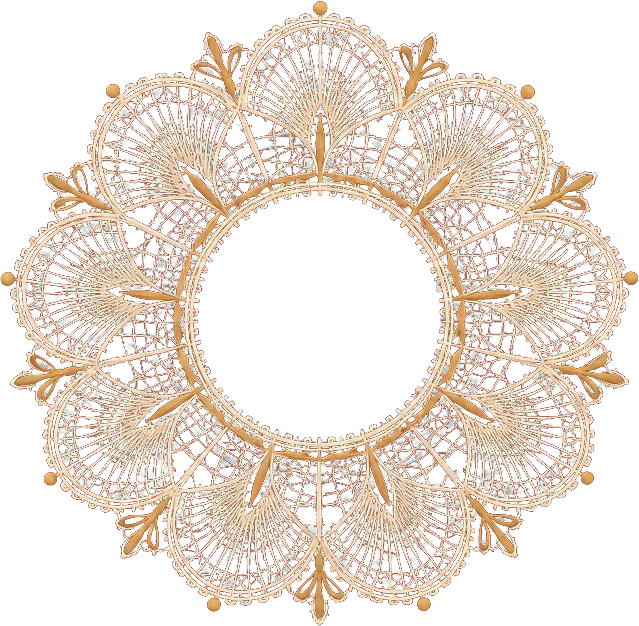
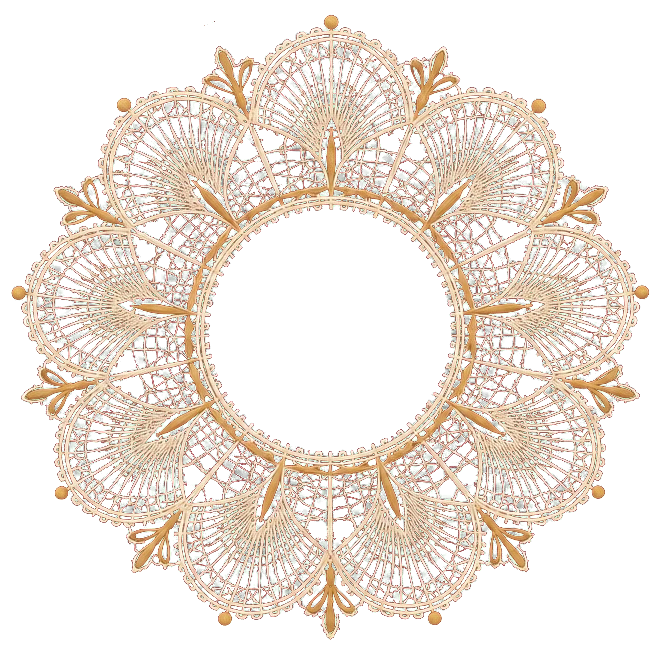
Plato del inicio centrado: aro de encaje recortado al centro real, fotos recortadas en círculo y canto crema

diff --git a/js/data.js b/js/data.js
@@ -78,7 +78,7 @@ window.CARTA = [
   { cat: "paraguayo", nombre: "Mbejú tradicional", precio: 4.80, img: "img/platos/mbeju.webp",
     desc: "Torta crujiente de almidón de mandioca, harina de maíz, queso, leche y mantequilla, hecha a la plancha.",
     gn: "Se pronuncia «mbeyú»", tags: ["py", "sintrigo"] },
-  { cat: "paraguayo", nombre: "Mbejú relleno de queso", precio: 5.90, img: "img/platos/hl-mbeju.webp",
+  { cat: "paraguayo", nombre: "Mbejú relleno de queso", precio: 5.90, img: "img/platos/hl-mbeju.webp", disco: "img/platos/plato-mbeju.webp",
     desc: "Nuestro mbejú con corazón de mozzarella fundida. El que estira.",
     tags: ["py", "top", "sintrigo"] },
   { cat: "paraguayo", nombre: "Mandi'ó chyryry", precio: 12.30, img: "img/platos/hl-chyryry.webp",
@@ -106,7 +106,7 @@ window.CARTA = [
     desc: "Maíz tierno y mozzarella. Dulce, suave y muy paraguaya.", tags: ["py"] },
 
   /* --- ESPECIALES DEL FINDE --- */
-  { cat: "finde", nombre: "Vorí vorí", precio: null, img: "img/platos/hl-vori-vori.webp",
+  { cat: "finde", nombre: "Vorí vorí", precio: null, img: "img/platos/hl-vori-vori.webp", disco: "img/platos/plato-vori.webp",
     desc: "Caldo de gallina casera con bolitas de harina de maíz y queso. El plato con el que Loren representó a Paraguay en el Mundial de Comidas de Ibai.",
     gn: "De «bolita» → vorí", tags: ["py", "top", "finde"] },
   { cat: "finde", nombre: "Asado a la olla", precio: null, img: "img/platos/hl-asado-olla.webp",
@@ -151,7 +151,7 @@ window.CARTA = [
     desc: "Con reducción de Módena." },
 
   /* --- MILANESAS --- */
-  { cat: "milanesas", nombre: "Milanesa a caballo", precio: 18.90, img: "img/platos/mila-caballo-pro.webp",
+  { cat: "milanesas", nombre: "Milanesa a caballo", precio: 18.90, img: "img/platos/mila-caballo-pro.webp", disco: "img/platos/plato-mila-caballo.webp",
     desc: "Milanesa de ternera con cebolla frita, dos huevos fritos y guarnición.", tags: ["top"] },
   { cat: "milanesas", nombre: "Milanesa a la napolitana", precio: 19.90, img: "img/platos/hl-milanesa.webp",
     desc: "Tomate frito, jamón, queso y huevo, con patatas fritas.", tags: ["top"] },

diff --git a/ca/carta.html b/ca/carta.html
@@ -19,9 +19,9 @@
 <link href="img/marca/favicon.webp" rel="icon" type="image/webp"/>
 <link href="https://fonts.googleapis.com" rel="preconnect"/><link crossorigin="" href="https://fonts.gstatic.com" rel="preconnect"/>
 <link href="https://fonts.googleapis.com/css2?family=DM+Sans:ital,opsz,wght@0,9..40,400..700;1,9..40,400..700&amp;family=Fraunces:ital,opsz,wght,SOFT,WONK@0,9..144,300..800,0..100,0..1;1,9..144,300..800,0..100,0..1&amp;family=Yellowtail&amp;display=swap" rel="stylesheet"/>
-<link href="css/styles.css?v=5" rel="stylesheet"/>
-<link href="css/paginas.css?v=5" rel="stylesheet"/>
-<link href="css/carta.css?v=5" rel="stylesheet"/>
+<link href="css/styles.css?v=6" rel="stylesheet"/>
+<link href="css/paginas.css?v=6" rel="stylesheet"/>
+<link href="css/carta.css?v=6" rel="stylesheet"/>
 <link href="ca/carta.html" hreflang="es" rel="alternate"/><link href="ca/carta.html" hreflang="ca" rel="alternate"/><link href="en/carta.html" hreflang="en" rel="alternate"/></head>
 <body data-page="carta">
 <div id="shell-top"></div>
@@ -140,11 +140,11 @@
 <div class="pp__caja" id="pp-caja"></div>
 </div>
 <div id="shell-bottom"></div>
-<script src="js/i18n.js?v=5"></script><script src="js/data.js?v=5"></script>
-<script src="js/layout.js?v=5"></script>
-<script src="js/nanduti.js?v=5"></script>
-<script src="js/paginas.js?v=5"></script>
-<script src="js/carta.js?v=5"></script>
-<script src="js/main.js?v=5"></script>
+<script src="js/i18n.js?v=5"></script><script src="js/data.js?v=6"></script>
+<script src="js/layout.js?v=6"></script>
+<script src="js/nanduti.js?v=6"></script>
+<script src="js/paginas.js?v=6"></script>
+<script src="js/carta.js?v=6"></script>
+<script src="js/main.js?v=6"></script>
 </body>
 </html>

diff --git a/en/carta.html b/en/carta.html
@@ -19,9 +19,9 @@
 <link href="img/marca/favicon.webp" rel="icon" type="image/webp"/>
 <link href="https://fonts.googleapis.com" rel="preconnect"/><link crossorigin="" href="https://fonts.gstatic.com" rel="preconnect"/>
 <link href="https://fonts.googleapis.com/css2?family=DM+Sans:ital,opsz,wght@0,9..40,400..700;1,9..40,400..700&amp;family=Fraunces:ital,opsz,wght,SOFT,WONK@0,9..144,300..800,0..100,0..1;1,9..144,300..800,0..100,0..1&amp;family=Yellowtail&amp;display=swap" rel="stylesheet"/>
-<link href="css/styles.css?v=5" rel="stylesheet"/>
-<link href="css/paginas.css?v=5" rel="stylesheet"/>
-<link href="css/carta.css?v=5" rel="stylesheet"/>
+<link href="css/styles.css?v=6" rel="stylesheet"/>
+<link href="css/paginas.css?v=6" rel="stylesheet"/>
+<link href="css/carta.css?v=6" rel="stylesheet"/>
 <link href="en/carta.html" hreflang="es" rel="alternate"/><link href="ca/carta.html" hreflang="ca" rel="alternate"/><link href="en/carta.html" hreflang="en" rel="alternate"/></head>
 <body data-page="carta">
 <div id="shell-top"></div>
@@ -140,11 +140,11 @@
 <div class="pp__caja" id="pp-caja"></div>
 </div>
 <div id="shell-bottom"></div>
-<script src="js/i18n.js?v=5"></script><script src="js/data.js?v=5"></script>
-<script src="js/layout.js?v=5"></script>
-<script src="js/nanduti.js?v=5"></script>
-<script src="js/paginas.js?v=5"></script>
-<script src="js/carta.js?v=5"></script>
-<script src="js/main.js?v=5"></script>
+<script src="js/i18n.js?v=5"></script><script src="js/data.js?v=6"></script>
+<script src="js/layout.js?v=6"></script>
+<script src="js/nanduti.js?v=6"></script>
+<script src="js/paginas.js?v=6"></script>
+<script src="js/carta.js?v=6"></script>
+<script src="js/main.js?v=6"></script>
 </body>
 </html>

diff --git a/ca/index.html b/ca/index.html
@@ -20,8 +20,8 @@
 <link href="https://fonts.googleapis.com" rel="preconnect"/>
 <link crossorigin="" href="https://fonts.gstatic.com" rel="preconnect"/>
 <link href="https://fonts.googleapis.com/css2?family=DM+Sans:ital,opsz,wght@0,9..40,400..700;1,9..40,400..700&amp;family=Fraunces:ital,opsz,wght,SOFT,WONK@0,9..144,300..800,0..100,0..1;1,9..144,300..800,0..100,0..1&amp;family=Yellowtail&amp;display=swap" rel="stylesheet"/>
-<link href="css/styles.css?v=5" rel="stylesheet"/>
-<link href="css/carta-clasica.css?v=5" rel="stylesheet"/>
+<link href="css/styles.css?v=6" rel="stylesheet"/>
+<link href="css/carta-clasica.css?v=6" rel="stylesheet"/>
 <script type="application/ld+json">
   {
     "@context": "https://schema.org",
@@ -439,10 +439,10 @@
 </section>
 </main>
 <div id="shell-bottom"></div>
-<script src="js/i18n.js?v=5"></script><script src="js/data.js?v=5"></script>
-<script src="js/layout.js?v=5"></script>
-<script src="js/nanduti.js?v=5"></script>
-<script src="js/carta-clasica.js?v=5"></script>
+<script src="js/i18n.js?v=5"></script><script src="js/data.js?v=6"></script>
+<script src="js/layout.js?v=6"></script>
+<script src="js/nanduti.js?v=6"></script>
+<script src="js/carta-clasica.js?v=6"></script>
 <script>
   CartaClasica.visor(document.getElementById("visor-carta"));
   (function () {
@@ -456,6 +456,6 @@
     document.getElementById("sc-n3").textContent = CARTA.filter((p) => p.cat === "finde").length;
   })();
 </script>
-<script src="js/main.js?v=5"></script>
+<script src="js/main.js?v=6"></script>
 </body>
 </html>

diff --git a/en/index.html b/en/index.html
@@ -20,8 +20,8 @@
 <link href="https://fonts.googleapis.com" rel="preconnect"/>
 <link crossorigin="" href="https://fonts.gstatic.com" rel="preconnect"/>
 <link href="https://fonts.googleapis.com/css2?family=DM+Sans:ital,opsz,wght@0,9..40,400..700;1,9..40,400..700&amp;family=Fraunces:ital,opsz,wght,SOFT,WONK@0,9..144,300..800,0..100,0..1;1,9..144,300..800,0..100,0..1&amp;family=Yellowtail&amp;display=swap" rel="stylesheet"/>
-<link href="css/styles.css?v=5" rel="stylesheet"/>
-<link href="css/carta-clasica.css?v=5" rel="stylesheet"/>
+<link href="css/styles.css?v=6" rel="stylesheet"/>
+<link href="css/carta-clasica.css?v=6" rel="stylesheet"/>
 <script type="application/ld+json">
   {
     "@context": "https://schema.org",
@@ -439,10 +439,10 @@
 </section>
 </main>
 <div id="shell-bottom"></div>
-<script src="js/i18n.js?v=5"></script><script src="js/data.js?v=5"></script>
-<script src="js/layout.js?v=5"></script>
-<script src="js/nanduti.js?v=5"></script>
-<script src="js/carta-clasica.js?v=5"></script>
+<script src="js/i18n.js?v=5"></script><script src="js/data.js?v=6"></script>
+<script src="js/layout.js?v=6"></script>
+<script src="js/nanduti.js?v=6"></script>
+<script src="js/carta-clasica.js?v=6"></script>
 <script>
   CartaClasica.visor(document.getElementById("visor-carta"));
   (function () {
@@ -456,6 +456,6 @@
     document.getElementById("sc-n3").textContent = CARTA.filter((p) => p.cat === "finde").length;
   })();
 </script>
-<script src="js/main.js?v=5"></script>
+<script src="js/main.js?v=6"></script>
 </body>
 </html>

diff --git a/ca/domicilio.html b/ca/domicilio.html
@@ -19,8 +19,8 @@
 <link href="img/marca/favicon.webp" rel="icon" type="image/webp"/>
 <link href="https://fonts.googleapis.com" rel="preconnect"/><link crossorigin="" href="https://fonts.gstatic.com" rel="preconnect"/>
 <link href="https://fonts.googleapis.com/css2?family=DM+Sans:ital,opsz,wght@0,9..40,400..700;1,9..40,400..700&amp;family=Fraunces:ital,opsz,wght,SOFT,WONK@0,9..144,300..800,0..100,0..1;1,9..144,300..800,0..100,0..1&amp;family=Yellowtail&amp;display=swap" rel="stylesheet"/>
-<link href="css/styles.css?v=5" rel="stylesheet"/>
-<link href="css/paginas.css?v=5" rel="stylesheet"/>
+<link href="css/styles.css?v=6" rel="stylesheet"/>
+<link href="css/paginas.css?v=6" rel="stylesheet"/>
 <link href="ca/domicilio.html" hreflang="es" rel="alternate"/><link href="ca/domicilio.html" hreflang="ca" rel="alternate"/><link href="en/domicilio.html" hreflang="en" rel="alternate"/></head>
 <body data-page="domicilio">
 <div id="shell-top"></div>
@@ -182,10 +182,10 @@
 </section>
 </main>
 <div id="shell-bottom"></div>
-<script src="js/i18n.js?v=5"></script><script src="js/data.js?v=5"></script>
-<script src="js/layout.js?v=5"></script>
-<script src="js/nanduti.js?v=5"></script>
-<script src="js/paginas.js?v=5"></script>
-<script src="js/main.js?v=5"></script>
+<script src="js/i18n.js?v=5"></script><script src="js/data.js?v=6"></script>
+<script src="js/layout.js?v=6"></script>
+<script src="js/nanduti.js?v=6"></script>
+<script src="js/paginas.js?v=6"></script>
+<script src="js/main.js?v=6"></script>
 </body>
 </html>

diff --git a/ca/visitanos.html b/ca/visitanos.html
@@ -19,8 +19,8 @@
 <link href="img/marca/favicon.webp" rel="icon" type="image/webp"/>
 <link href="https://fonts.googleapis.com" rel="preconnect"/><link crossorigin="" href="https://fonts.gstatic.com" rel="preconnect"/>
 <link href="https://fonts.googleapis.com/css2?family=DM+Sans:ital,opsz,wght@0,9..40,400..700;1,9..40,400..700&amp;family=Fraunces:ital,opsz,wght,SOFT,WONK@0,9..144,300..800,0..100,0..1;1,9..144,300..800,0..100,0..1&amp;family=Yellowtail&amp;display=swap" rel="stylesheet"/>
-<link href="css/styles.css?v=5" rel="stylesheet"/>
-<link href="css/paginas.css?v=5" rel="stylesheet"/>
+<link href="css/styles.css?v=6" rel="stylesheet"/>
+<link href="css/paginas.css?v=6" rel="stylesheet"/>
 <link href="ca/visitanos.html" hreflang="es" rel="alternate"/><link href="ca/visitanos.html" hreflang="ca" rel="alternate"/><link href="en/visitanos.html" hreflang="en" rel="alternate"/></head>
 <body data-page="visitanos">
 <div id="shell-top"></div>
@@ -177,10 +177,10 @@
 </section>
 </main>
 <div id="shell-bottom"></div>
-<script src="js/i18n.js?v=5"></script><script src="js/data.js?v=5"></script>
-<script src="js/layout.js?v=5"></script>
-<script src="js/nanduti.js?v=5"></script>
-<script src="js/paginas.js?v=5"></script>
-<script src="js/main.js?v=5"></script>
+<script src="js/i18n.js?v=5"></script><script src="js/data.js?v=6"></script>
+<script src="js/layout.js?v=6"></script>
+<script src="js/nanduti.js?v=6"></script>
+<script src="js/paginas.js?v=6"></script>
+<script src="js/main.js?v=6"></script>
 </body>
 </html>

diff --git a/en/domicilio.html b/en/domicilio.html
@@ -19,8 +19,8 @@
 <link href="img/marca/favicon.webp" rel="icon" type="image/webp"/>
 <link href="https://fonts.googleapis.com" rel="preconnect"/><link crossorigin="" href="https://fonts.gstatic.com" rel="preconnect"/>
 <link href="https://fonts.googleapis.com/css2?family=DM+Sans:ital,opsz,wght@0,9..40,400..700;1,9..40,400..700&amp;family=Fraunces:ital,opsz,wght,SOFT,WONK@0,9..144,300..800,0..100,0..1;1,9..144,300..800,0..100,0..1&amp;family=Yellowtail&amp;display=swap" rel="stylesheet"/>
-<link href="css/styles.css?v=5" rel="stylesheet"/>
-<link href="css/paginas.css?v=5" rel="stylesheet"/>
+<link href="css/styles.css?v=6" rel="stylesheet"/>
+<link href="css/paginas.css?v=6" rel="stylesheet"/>
 <link href="en/domicilio.html" hreflang="es" rel="alternate"/><link href="ca/domicilio.html" hreflang="ca" rel="alternate"/><link href="en/domicilio.html" hreflang="en" rel="alternate"/></head>
 <body data-page="domicilio">
 <div id="shell-top"></div>
@@ -182,10 +182,10 @@
 </section>
 </main>
 <div id="shell-bottom"></div>
-<script src="js/i18n.js?v=5"></script><script src="js/data.js?v=5"></script>
-<script src="js/layout.js?v=5"></script>
-<script src="js/nanduti.js?v=5"></script>
-<script src="js/paginas.js?v=5"></script>
-<script src="js/main.js?v=5"></script>
+<script src="js/i18n.js?v=5"></script><script src="js/data.js?v=6"></script>
+<script src="js/layout.js?v=6"></script>
+<script src="js/nanduti.js?v=6"></script>
+<script src="js/paginas.js?v=6"></script>
+<script src="js/main.js?v=6"></script>
 </body>
 </html>

diff --git a/en/visitanos.html b/en/visitanos.html
@@ -19,8 +19,8 @@
 <link href="img/marca/favicon.webp" rel="icon" type="image/webp"/>
 <link href="https://fonts.googleapis.com" rel="preconnect"/><link crossorigin="" href="https://fonts.gstatic.com" rel="preconnect"/>
 <link href="https://fonts.googleapis.com/css2?family=DM+Sans:ital,opsz,wght@0,9..40,400..700;1,9..40,400..700&amp;family=Fraunces:ital,opsz,wght,SOFT,WONK@0,9..144,300..800,0..100,0..1;1,9..144,300..800,0..100,0..1&amp;family=Yellowtail&amp;display=swap" rel="stylesheet"/>
-<link href="css/styles.css?v=5" rel="stylesheet"/>
-<link href="css/paginas.css?v=5" rel="stylesheet"/>
+<link href="css/styles.css?v=6" rel="stylesheet"/>
+<link href="css/paginas.css?v=6" rel="stylesheet"/>
 <link href="en/visitanos.html" hreflang="es" rel="alternate"/><link href="ca/visitanos.html" hreflang="ca" rel="alternate"/><link href="en/visitanos.html" hreflang="en" rel="alternate"/></head>
 <body data-page="visitanos">
 <div id="shell-top"></div>
@@ -177,10 +177,10 @@
 </section>
 </main>
 <div id="shell-bottom"></div>
-<script src="js/i18n.js?v=5"></script><script src="js/data.js?v=5"></script>
-<script src="js/layout.js?v=5"></script>
-<script src="js/nanduti.js?v=5"></script>
-<script src="js/paginas.js?v=5"></script>
-<script src="js/main.js?v=5"></script>
+<script src="js/i18n.js?v=5"></script><script src="js/data.js?v=6"></script>
+<script src="js/layout.js?v=6"></script>
+<script src="js/nanduti.js?v=6"></script>
+<script src="js/paginas.js?v=6"></script>
+<script src="js/main.js?v=6"></script>
 </body>
 </html>

diff --git a/ca/historia.html b/ca/historia.html
@@ -19,8 +19,8 @@
 <link href="img/marca/favicon.webp" rel="icon" type="image/webp"/>
 <link href="https://fonts.googleapis.com" rel="preconnect"/><link crossorigin="" href="https://fonts.gstatic.com" rel="preconnect"/>
 <link href="https://fonts.googleapis.com/css2?family=DM+Sans:ital,opsz,wght@0,9..40,400..700;1,9..40,400..700&amp;family=Fraunces:ital,opsz,wght,SOFT,WONK@0,9..144,300..800,0..100,0..1;1,9..144,300..800,0..100,0..1&amp;family=Yellowtail&amp;display=swap" rel="stylesheet"/>
-<link href="css/styles.css?v=5" rel="stylesheet"/>
-<link href="css/paginas.css?v=5" rel="stylesheet"/>
+<link href="css/styles.css?v=6" rel="stylesheet"/>
+<link href="css/paginas.css?v=6" rel="stylesheet"/>
 <link href="ca/historia.html" hreflang="es" rel="alternate"/><link href="ca/historia.html" hreflang="ca" rel="alternate"/><link href="en/historia.html" hreflang="en" rel="alternate"/></head>
 <body data-page="historia">
 <div id="shell-top"></div>
@@ -208,10 +208,10 @@
 </section>
 </main>
 <div id="shell-bottom"></div>
-<script src="js/i18n.js?v=5"></script><script src="js/data.js?v=5"></script>
-<script src="js/layout.js?v=5"></script>
-<script src="js/nanduti.js?v=5"></script>
-<script src="js/paginas.js?v=5"></script>
-<script src="js/main.js?v=5"></script>
+<script src="js/i18n.js?v=5"></script><script src="js/data.js?v=6"></script>
+<script src="js/layout.js?v=6"></script>
+<script src="js/nanduti.js?v=6"></script>
+<script src="js/paginas.js?v=6"></script>
+<script src="js/main.js?v=6"></script>
 </body>
 </html>

diff --git a/en/historia.html b/en/historia.html
@@ -19,8 +19,8 @@
 <link href="img/marca/favicon.webp" rel="icon" type="image/webp"/>
 <link href="https://fonts.googleapis.com" rel="preconnect"/><link crossorigin="" href="https://fonts.gstatic.com" rel="preconnect"/>
 <link href="https://fonts.googleapis.com/css2?family=DM+Sans:ital,opsz,wght@0,9..40,400..700;1,9..40,400..700&amp;family=Fraunces:ital,opsz,wght,SOFT,WONK@0,9..144,300..800,0..100,0..1;1,9..144,300..800,0..100,0..1&amp;family=Yellowtail&amp;display=swap" rel="stylesheet"/>
-<link href="css/styles.css?v=5" rel="stylesheet"/>
-<link href="css/paginas.css?v=5" rel="stylesheet"/>
+<link href="css/styles.css?v=6" rel="stylesheet"/>
+<link href="css/paginas.css?v=6" rel="stylesheet"/>
 <link href="en/historia.html" hreflang="es" rel="alternate"/><link href="ca/historia.html" hreflang="ca" rel="alternate"/><link href="en/historia.html" hreflang="en" rel="alternate"/></head>
 <body data-page="historia">
 <div id="shell-top"></div>
@@ -208,10 +208,10 @@
 </section>
 </main>
 <div id="shell-bottom"></div>
-<script src="js/i18n.js?v=5"></script><script src="js/data.js?v=5"></script>
-<script src="js/layout.js?v=5"></script>
-<script src="js/nanduti.js?v=5"></script>
-<script src="js/paginas.js?v=5"></script>
-<script src="js/main.js?v=5"></script>
+<script src="js/i18n.js?v=5"></script><script src="js/data.js?v=6"></script>
+<script src="js/layout.js?v=6"></script>
+<script src="js/nanduti.js?v=6"></script>
+<script src="js/paginas.js?v=6"></script>
+<script src="js/main.js?v=6"></script>
 </body>
 </html>

diff --git a/ca/eventos.html b/ca/eventos.html
@@ -19,8 +19,8 @@
 <link href="img/marca/favicon.webp" rel="icon" type="image/webp"/>
 <link href="https://fonts.googleapis.com" rel="preconnect"/><link crossorigin="" href="https://fonts.gstatic.com" rel="preconnect"/>
 <link href="https://fonts.googleapis.com/css2?family=DM+Sans:ital,opsz,wght@0,9..40,400..700;1,9..40,400..700&amp;family=Fraunces:ital,opsz,wght,SOFT,WONK@0,9..144,300..800,0..100,0..1;1,9..144,300..800,0..100,0..1&amp;family=Yellowtail&amp;display=swap" rel="stylesheet"/>
-<link href="css/styles.css?v=5" rel="stylesheet"/>
-<link href="css/paginas.css?v=5" rel="stylesheet"/>
+<link href="css/styles.css?v=6" rel="stylesheet"/>
+<link href="css/paginas.css?v=6" rel="stylesheet"/>
 <link href="ca/eventos.html" hreflang="es" rel="alternate"/><link href="ca/eventos.html" hreflang="ca" rel="alternate"/><link href="en/eventos.html" hreflang="en" rel="alternate"/></head>
 <body data-page="eventos">
 <div id="shell-top"></div>
@@ -199,10 +199,10 @@
 </section>
 </main>
 <div id="shell-bottom"></div>
-<script src="js/i18n.js?v=5"></script><script src="js/data.js?v=5"></script>
-<script src="js/layout.js?v=5"></script>
-<script src="js/nanduti.js?v=5"></script>
-<script src="js/paginas.js?v=5"></script>
-<script src="js/main.js?v=5"></script>
+<script src="js/i18n.js?v=5"></script><script src="js/data.js?v=6"></script>
+<script src="js/layout.js?v=6"></script>
+<script src="js/nanduti.js?v=6"></script>
+<script src="js/paginas.js?v=6"></script>
+<script src="js/main.js?v=6"></script>
 </body>
 </html>
